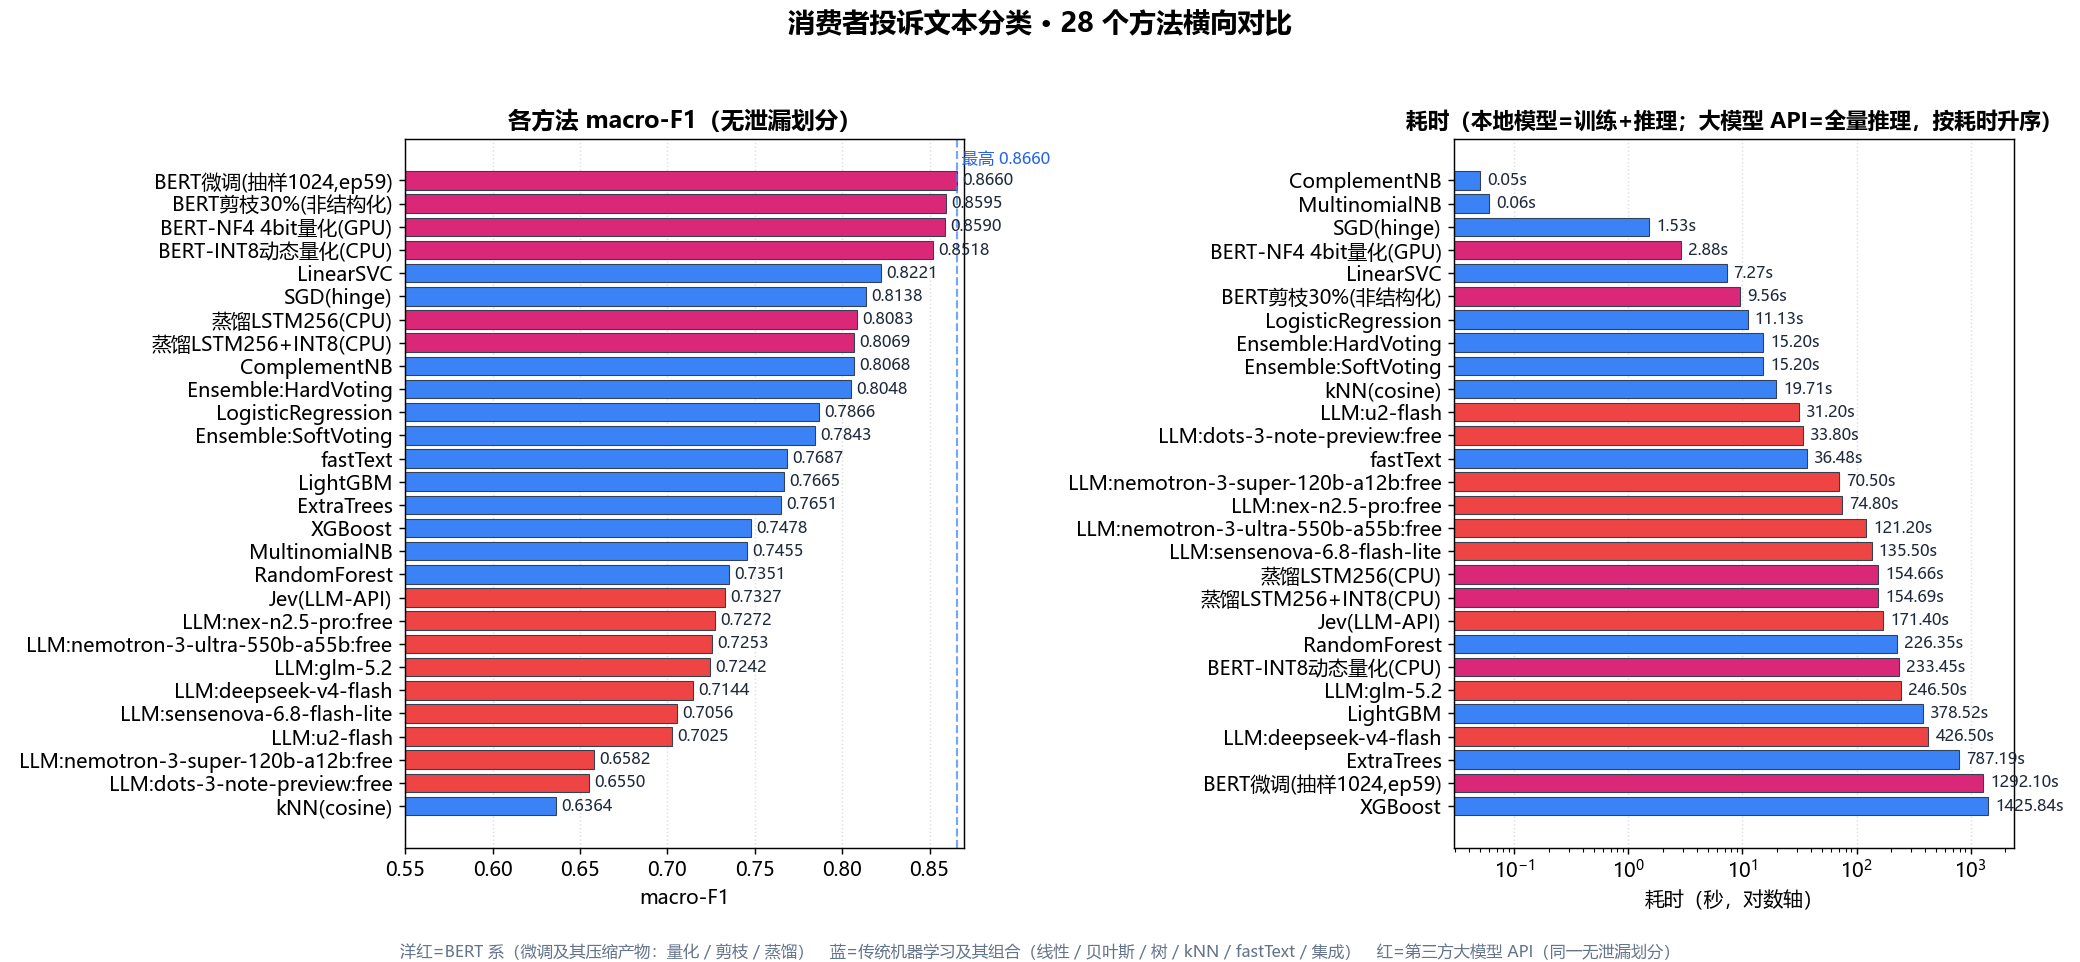
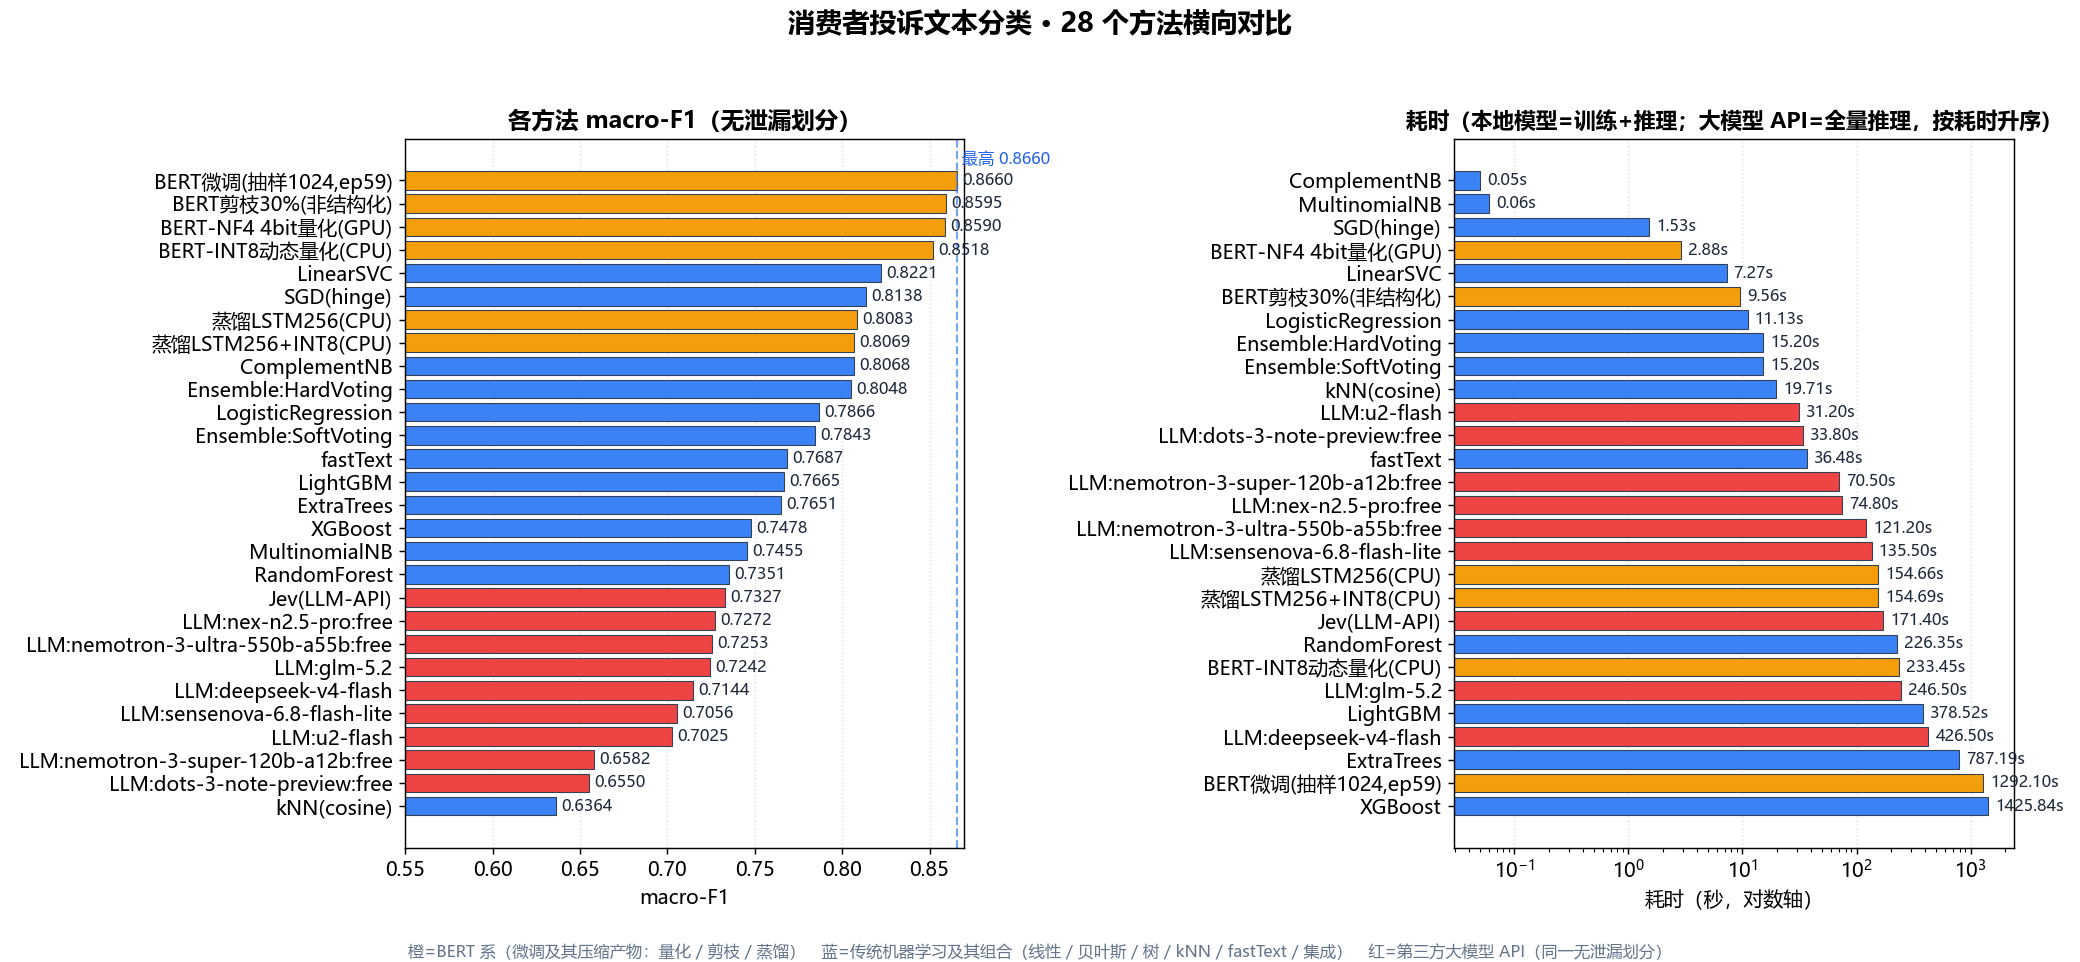
style: BERT 系配色由洋红改为橙(打榜图/帕累托图/韦恩图同步)
- BERT 系 #db2777 洋红 -> #f59e0b 橙, 三阵营变为 橙/蓝/红, 分离度更好
  (此前洋红 #db2777 与第三方 API 的红 #ef4444 色相只差 23°, 容易混)
- 同步 make_venn_fig.py 的 C_BERT(该文件注释本就写着"与打榜图配色一致")
- 图 11/12(BERT 训练曲线)与图 19(压缩方案对比)未动: 前者只有 BERT 一个模型,
  后者靠四色区分四种压缩方案, 统一成橙会看不出方案差异
- 重出 09 / 10 / 18 三张图(10 图自检 0 互叠 / 0 压点, 18 图数据未变)

diff --git a/resources/make_compare_fig.py b/resources/make_compare_fig.py
@@ -33,7 +33,7 @@ def color(n):
     if "LLM" in n or "Jev" in n:
         return "#ef4444"          # 第三方大模型 API 红
     if "BERT" in n or "蒸馏" in n:
-        return "#db2777"          # BERT 系（微调 / 量化 / 剪枝 / 蒸馏产物）洋红
+        return "#f59e0b"          # BERT 系（微调 / 量化 / 剪枝 / 蒸馏产物）橙
     return "#3b82f6"              # 传统机器学习及其组合 蓝
 
 
@@ -81,7 +81,7 @@ ax.set_axisbelow(True)
 
 fig.suptitle(f"消费者投诉文本分类 · {len(names)} 个方法横向对比", fontsize=15, fontweight="bold", y=0.99)
 fig.text(0.5, 0.005,
-         "洋红=BERT 系（微调及其压缩产物：量化 / 剪枝 / 蒸馏）　蓝=传统机器学习及其组合（线性 / 贝叶斯 / 树 / kNN / fastText / 集成）　红=第三方大模型 API（同一无泄漏划分）",
+         "橙=BERT 系（微调及其压缩产物：量化 / 剪枝 / 蒸馏）　蓝=传统机器学习及其组合（线性 / 贝叶斯 / 树 / kNN / fastText / 集成）　红=第三方大模型 API（同一无泄漏划分）",
          ha="center", fontsize=9, color="#64748b")
 plt.tight_layout(rect=[0, 0.03, 1, 0.96])
 

diff --git a/resources/make_pareto_fig.py b/resources/make_pareto_fig.py
@@ -60,7 +60,7 @@ def color(n):
     if "LLM" in n or "Jev" in n:
         return "#ef4444"          # 第三方大模型 API 红
     if "BERT" in n or "蒸馏" in n:
-        return "#db2777"          # BERT 系（微调 / 量化 / 剪枝 / 蒸馏产物）洋红
+        return "#f59e0b"          # BERT 系（微调 / 量化 / 剪枝 / 蒸馏产物）橙
     return "#3b82f6"              # 传统机器学习及其组合 蓝
 
 
@@ -135,7 +135,7 @@ ax.set_axisbelow(True)
 ax.margins(x=0.08, y=0.12)
 
 fig.text(0.5, 0.012,
-         "洋红=BERT 系（微调及其压缩产物：量化 / 剪枝 / 蒸馏）　蓝=传统机器学习及其组合（线性 / 贝叶斯 / 树 / kNN / fastText / 集成）　红=第三方大模型 API　"
+         "橙=BERT 系（微调及其压缩产物：量化 / 剪枝 / 蒸馏）　蓝=传统机器学习及其组合（线性 / 贝叶斯 / 树 / kNN / fastText / 集成）　红=第三方大模型 API　"
          "　红点+虚线=帕累托最优前沿（不被任何方法支配）",
          ha="center", fontsize=9, color="#64748b")
 plt.tight_layout(rect=[0, 0.03, 1, 1])   # 必须先于标签排版：它会改变 axes 位置

diff --git a/resources/make_venn_fig.py b/resources/make_venn_fig.py
@@ -35,7 +35,7 @@ os.makedirs(OUT, exist_ok=True)
 
 INK = "#0f172a"
 C_SVC = "#3b82f6"      # LinearSVC（蓝）
-C_BERT = "#d946ef"     # BERT（洋红），与打榜图配色一致
+C_BERT = "#f59e0b"     # BERT（橙），与打榜图配色一致
 C_E = "#f59e0b"        # 电商平台（橙）
 C_F = "#10b981"        # 服饰鞋包（绿）
 C_H = "#3b82f6"        # 家居日用（蓝）
